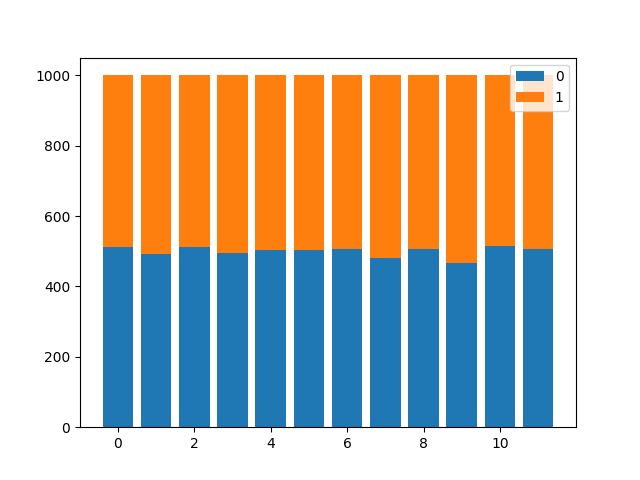
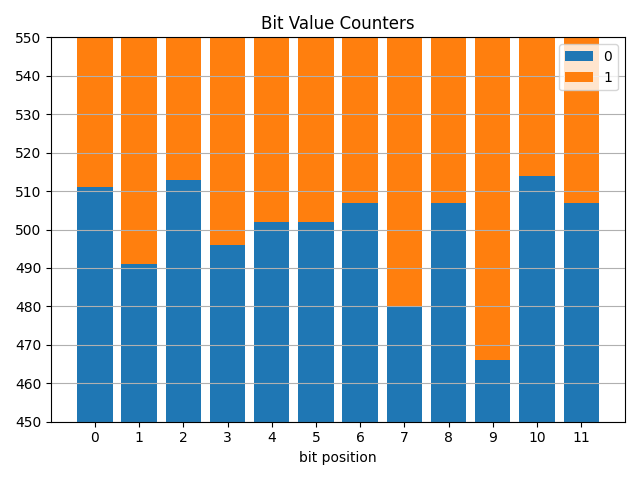
day3 viz

diff --git a/day3.py b/day3.py
@@ -1,6 +1,8 @@
 # import our helpers
 from utils import load, show, day, TRACE, Map, Path
 from collections import Counter
+from PIL import Image
+from matplotlib import pyplot as plt
 
 ####### GLOBALS #########
 
@@ -28,12 +30,14 @@ def p1(expect=3633500, viz=None):
 ######## Part 2 ##########
 def p2(expect=4550283, viz=None):
 # Next, you should verify the life support rating, which can be determined by multiplying the oxygen generator rating by the CO2 scrubber rating.
-
+    counters=[]
     def get_diagnostic(defaultval, diagidx):
         valid = set(range(len(PARSED)))
         bit = 0
         while len(valid) > 1:
             counter = Counter([PARSED[i][bit] for i in valid])
+            if viz:
+                counters.append(counter)
             # find most common
             if counter['0'] == counter['1']:
                 match = defaultval
@@ -44,24 +48,63 @@ def p2(expect=4550283, viz=None):
                 if PARSED[idx][bit] != match:
                     valid.remove(idx)
             bit += 1
+        if viz:
+            while len(counters) % 12:
+                counters.append(Counter())
         return PARSED[valid.pop()]
 
     oxygen = get_diagnostic('1', 0)
     co2 = get_diagnostic('0', 1)
+
+    if viz:
+        viz(counters)
+
     return int(oxygen,2) * int(co2,2)
 
+##### visualization #######
+
 def viz1(counters):
-    from PIL import Image
-    from matplotlib import pyplot as plt
+    """stacked bar graph"""
     fig, ax = plt.subplots()
     xlabels = range(len(counters))
     ones = [_['1'] for _ in counters]
     noughts = [_['0'] for _ in counters]
     ax.bar(xlabels, noughts, label="0")
     ax.bar(xlabels, ones, label="1", bottom=noughts)
+    ax.set(ylim=[450, 550], title="Bit Value Counters")
+    ax.grid(visible=True, axis="y")
+    ax.set_xlabel("bit position")
+    ax.set_xticks(range(0,12))
+    ax.set_yticks(range(450,560,10))
     ax.legend()
     full = Path(__file__).parent / 'output' / 'day3a.png'
     thumb = full.parent / 'day3athumb.png'
+    fig.set_tight_layout(True)
+    fig.savefig(full)
+    img = Image.open(full)
+    img.resize((100,100)).save(thumb)
+
+def viz2(counters):
+    """3d stacked bar graph"""
+    # setup the figure and axes
+    fig = plt.figure(figsize=(7,6))
+    ax = fig.add_subplot(111, projection='3d', title="Valid codes remaining")
+    width = 0.75
+    depth = 0.5
+    x = [0,1,2,3,4,5,6,7,8,9,10,11]*2
+    y = [0]*12 + [1]*12
+    z = [0]*24
+    ones = [c['1'] for c in counters]
+    noughts = [c['0'] for c in counters]
+    ax.set_xticks(range(0,12))
+    ax.set_xlabel("bits checked")
+    ax.set_ylabel("oxygen            CO2")
+    ax.set_yticks([])
+    ax.bar3d(x, y, z, width, depth, noughts, shade=True, label="0")
+    ax.bar3d(x, y, noughts, width, depth, ones, shade=True, label="1")
+    fig.set_tight_layout(True)
+    full = Path(__file__).parent / 'output' / 'day3b.png'
+    thumb = full.parent / 'day3bthumb.png'
     fig.savefig(full)
     img = Image.open(full)
     img.resize((100,100)).save(thumb)
@@ -73,3 +116,4 @@ def main():
 if __name__ == "__main__":
     main()
     p1(viz=viz1)
+    p2(viz=viz2)

diff --git a/README.md b/README.md
@@ -26,27 +26,27 @@ Day | Part | Visualisation | Difficulty | Notes
 day1 [🌐](https://adventofcode.com/2021/day/1)[💾](./day1.py)    | both | ![Depth Map](./output/day1.png)                    | 1/10 | The expected couple of python generators to solve a trivial data problem
 day2 [🌐](https://adventofcode.com/2021/day/2)[💾](./day2.py)    | both | ![Going Down](./output/day2b.png)                  | 1/10 | parse text input and process
 day3 [🌐](https://adventofcode.com/2021/day/3)[💾](./day3.py)    | 1    | [![](./output/day3athumb.png)](./output/day3a.png) | 2/10 | collections.Counter is very useful
-day3 [🌐](https://adventofcode.com/2021/day/3)[💾](./day3.py)    | 2    |                                                    | 3/10 | Read carefully and recalculate counter after each filter!
-day4 [🌐](https://adventofcode.com/2021/day/4)[💾](./day4.py)    |      |                                   |  | 
-day5 [🌐](https://adventofcode.com/2021/day/5)[💾](./day5.py)    |      |                                   |  | 
-day6 [🌐](https://adventofcode.com/2021/day/6)[💾](./day6.py)    |      |                                   |  | 
-day7 [🌐](https://adventofcode.com/2021/day/7)[💾](./day7.py)    |      |                                   |  | 
-day8 [🌐](https://adventofcode.com/2021/day/8)[💾](./day8.py)    |      |                                   |  | 
-day9 [🌐](https://adventofcode.com/2021/day/9)[💾](./day9.py)    |      |                                   |  | 
-day10 [🌐](https://adventofcode.com/2021/day/10)[💾](./day10.py) |      |                                   |  | 
-day11 [🌐](https://adventofcode.com/2021/day/11)[💾](./day11.py) |      |                                   |  | 
-day12 [🌐](https://adventofcode.com/2021/day/12)[💾](./day12.py) |      |                                   |  | 
-day13 [🌐](https://adventofcode.com/2021/day/13)[💾](./day13.py) |      |                                   |  | 
-day14 [🌐](https://adventofcode.com/2021/day/14)[💾](./day14.py) |      |                                   |  | 
-day15 [🌐](https://adventofcode.com/2021/day/15)[💾](./day15.py) |      |                                   |  | 
-day16 [🌐](https://adventofcode.com/2021/day/16)[💾](./day16.py) |      |                                   |  | 
-day17 [🌐](https://adventofcode.com/2021/day/17)[💾](./day17.py) |      |                                   |  | 
-day18 [🌐](https://adventofcode.com/2021/day/18)[💾](./day18.py) |      |                                   |  | 
-day19 [🌐](https://adventofcode.com/2021/day/19)[💾](./day19.py) |      |                                   |  | 
-day20 [🌐](https://adventofcode.com/2021/day/20)[💾](./day20.py) |      |                                   |  | 
-day21 [🌐](https://adventofcode.com/2021/day/21)[💾](./day21.py) |      |                                   |  | 
-day22 [🌐](https://adventofcode.com/2021/day/22)[💾](./day22.py) |      |                                   |  | 
-day23 [🌐](https://adventofcode.com/2021/day/23)[💾](./day23.py) |      |                                   |  | 
-day24 [🌐](https://adventofcode.com/2021/day/24)[💾](./day24.py) |      |                                   |  | 
-day25 [🌐](https://adventofcode.com/2021/day/25)[💾](./day25.py) |      |                                   |  | 
+day3 [🌐](https://adventofcode.com/2021/day/3)[💾](./day3.py)    | 2    | [![](./output/day3bthumb.png)](./output/day3b.png) | 3/10 | Read carefully and recalculate counter after each filter!
+day4 [🌐](https://adventofcode.com/2021/day/4)[💾](./day4.py)    |      |  |  | 
+day5 [🌐](https://adventofcode.com/2021/day/5)[💾](./day5.py)    |      |  |  | 
+day6 [🌐](https://adventofcode.com/2021/day/6)[💾](./day6.py)    |      |  |  | 
+day7 [🌐](https://adventofcode.com/2021/day/7)[💾](./day7.py)    |      |  |  | 
+day8 [🌐](https://adventofcode.com/2021/day/8)[💾](./day8.py)    |      |  |  | 
+day9 [🌐](https://adventofcode.com/2021/day/9)[💾](./day9.py)    |      |  |  | 
+day10 [🌐](https://adventofcode.com/2021/day/10)[💾](./day10.py) |      |  |  | 
+day11 [🌐](https://adventofcode.com/2021/day/11)[💾](./day11.py) |      |  |  | 
+day12 [🌐](https://adventofcode.com/2021/day/12)[💾](./day12.py) |      |  |  | 
+day13 [🌐](https://adventofcode.com/2021/day/13)[💾](./day13.py) |      |  |  | 
+day14 [🌐](https://adventofcode.com/2021/day/14)[💾](./day14.py) |      |  |  | 
+day15 [🌐](https://adventofcode.com/2021/day/15)[💾](./day15.py) |      |  |  | 
+day16 [🌐](https://adventofcode.com/2021/day/16)[💾](./day16.py) |      |  |  | 
+day17 [🌐](https://adventofcode.com/2021/day/17)[💾](./day17.py) |      |  |  | 
+day18 [🌐](https://adventofcode.com/2021/day/18)[💾](./day18.py) |      |  |  | 
+day19 [🌐](https://adventofcode.com/2021/day/19)[💾](./day19.py) |      |  |  | 
+day20 [🌐](https://adventofcode.com/2021/day/20)[💾](./day20.py) |      |  |  | 
+day21 [🌐](https://adventofcode.com/2021/day/21)[💾](./day21.py) |      |  |  | 
+day22 [🌐](https://adventofcode.com/2021/day/22)[💾](./day22.py) |      |  |  | 
+day23 [🌐](https://adventofcode.com/2021/day/23)[💾](./day23.py) |      |  |  | 
+day24 [🌐](https://adventofcode.com/2021/day/24)[💾](./day24.py) |      |  |  | 
+day25 [🌐](https://adventofcode.com/2021/day/25)[💾](./day25.py) |      |  |  | 
 
